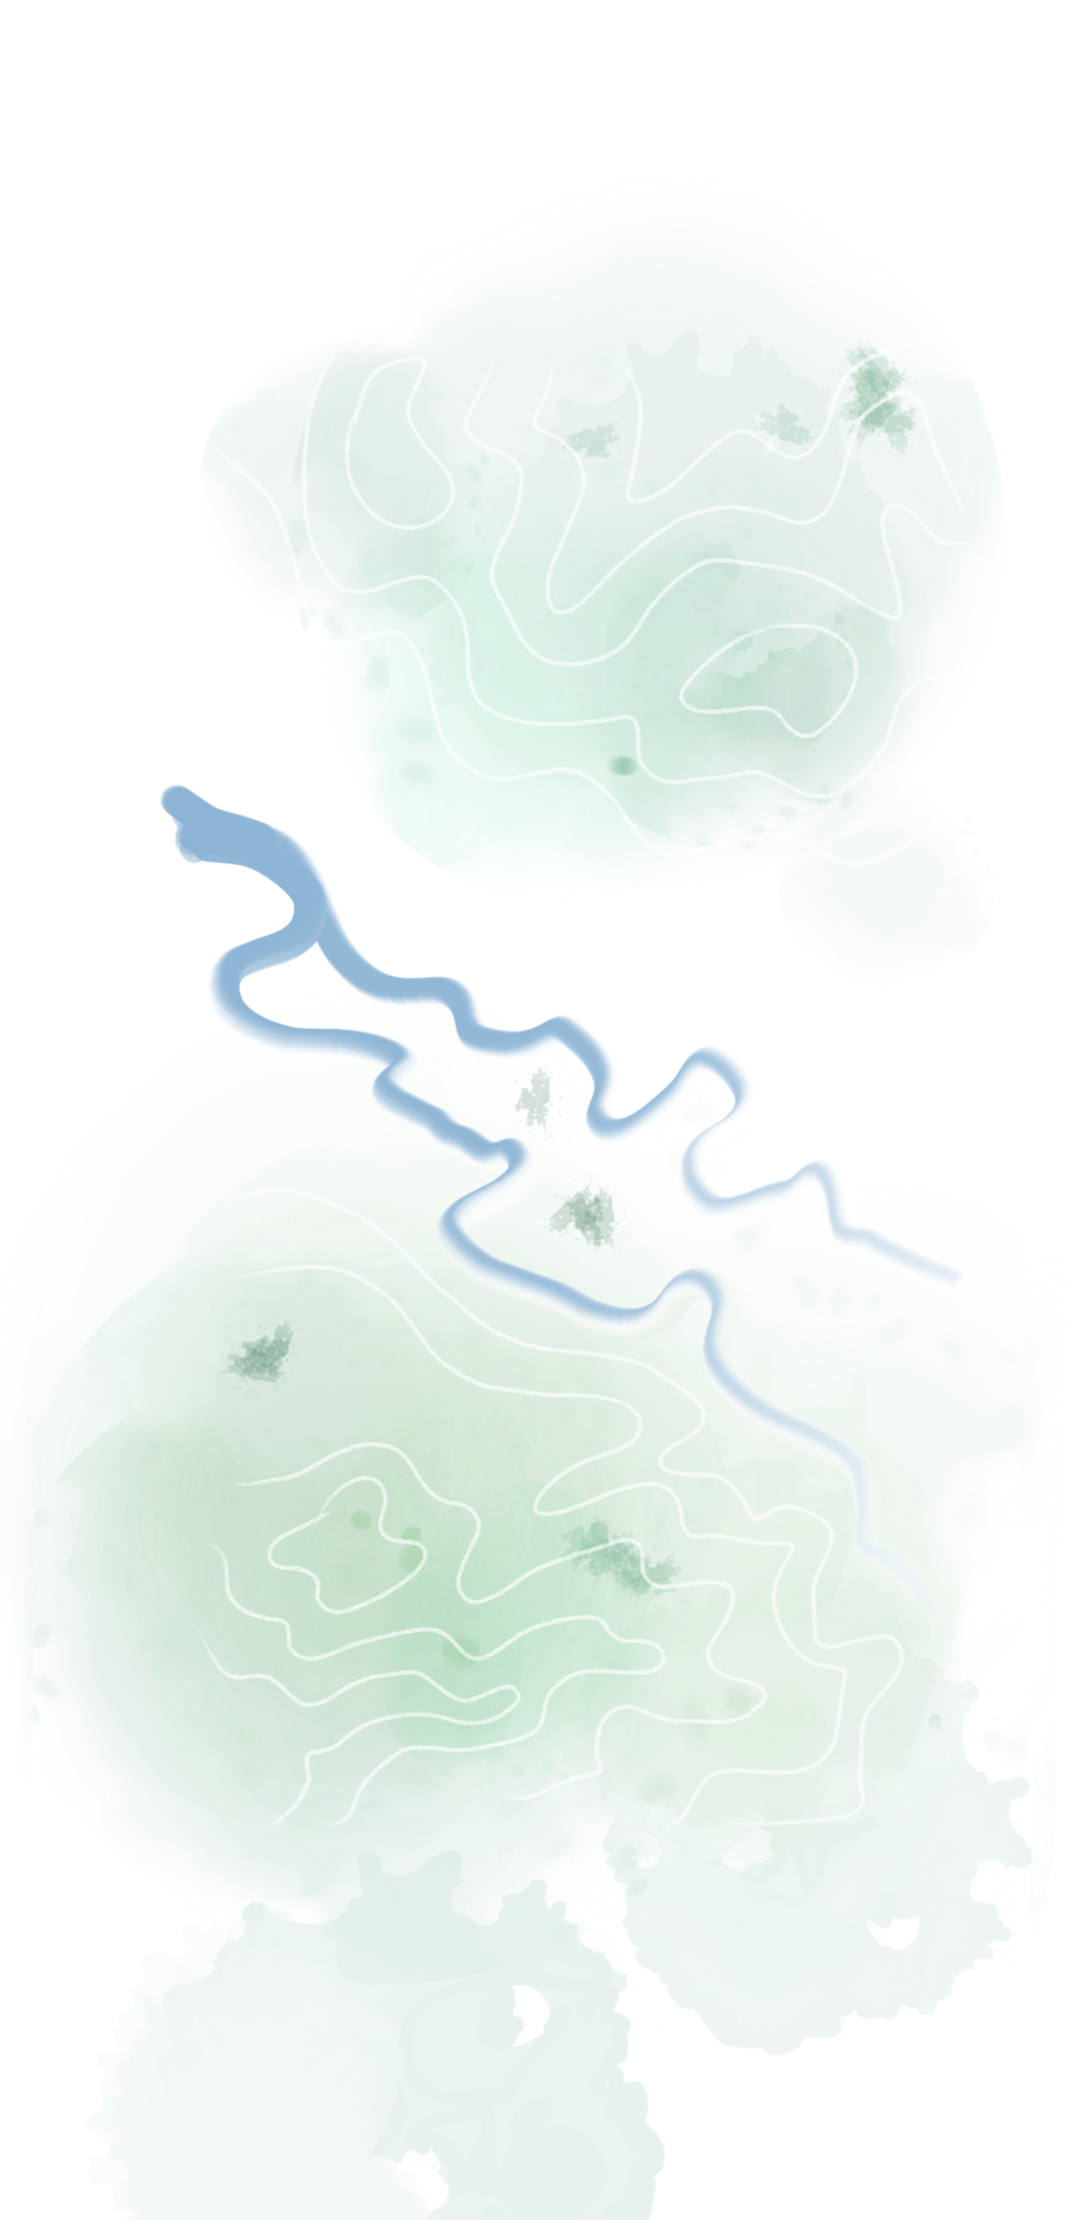
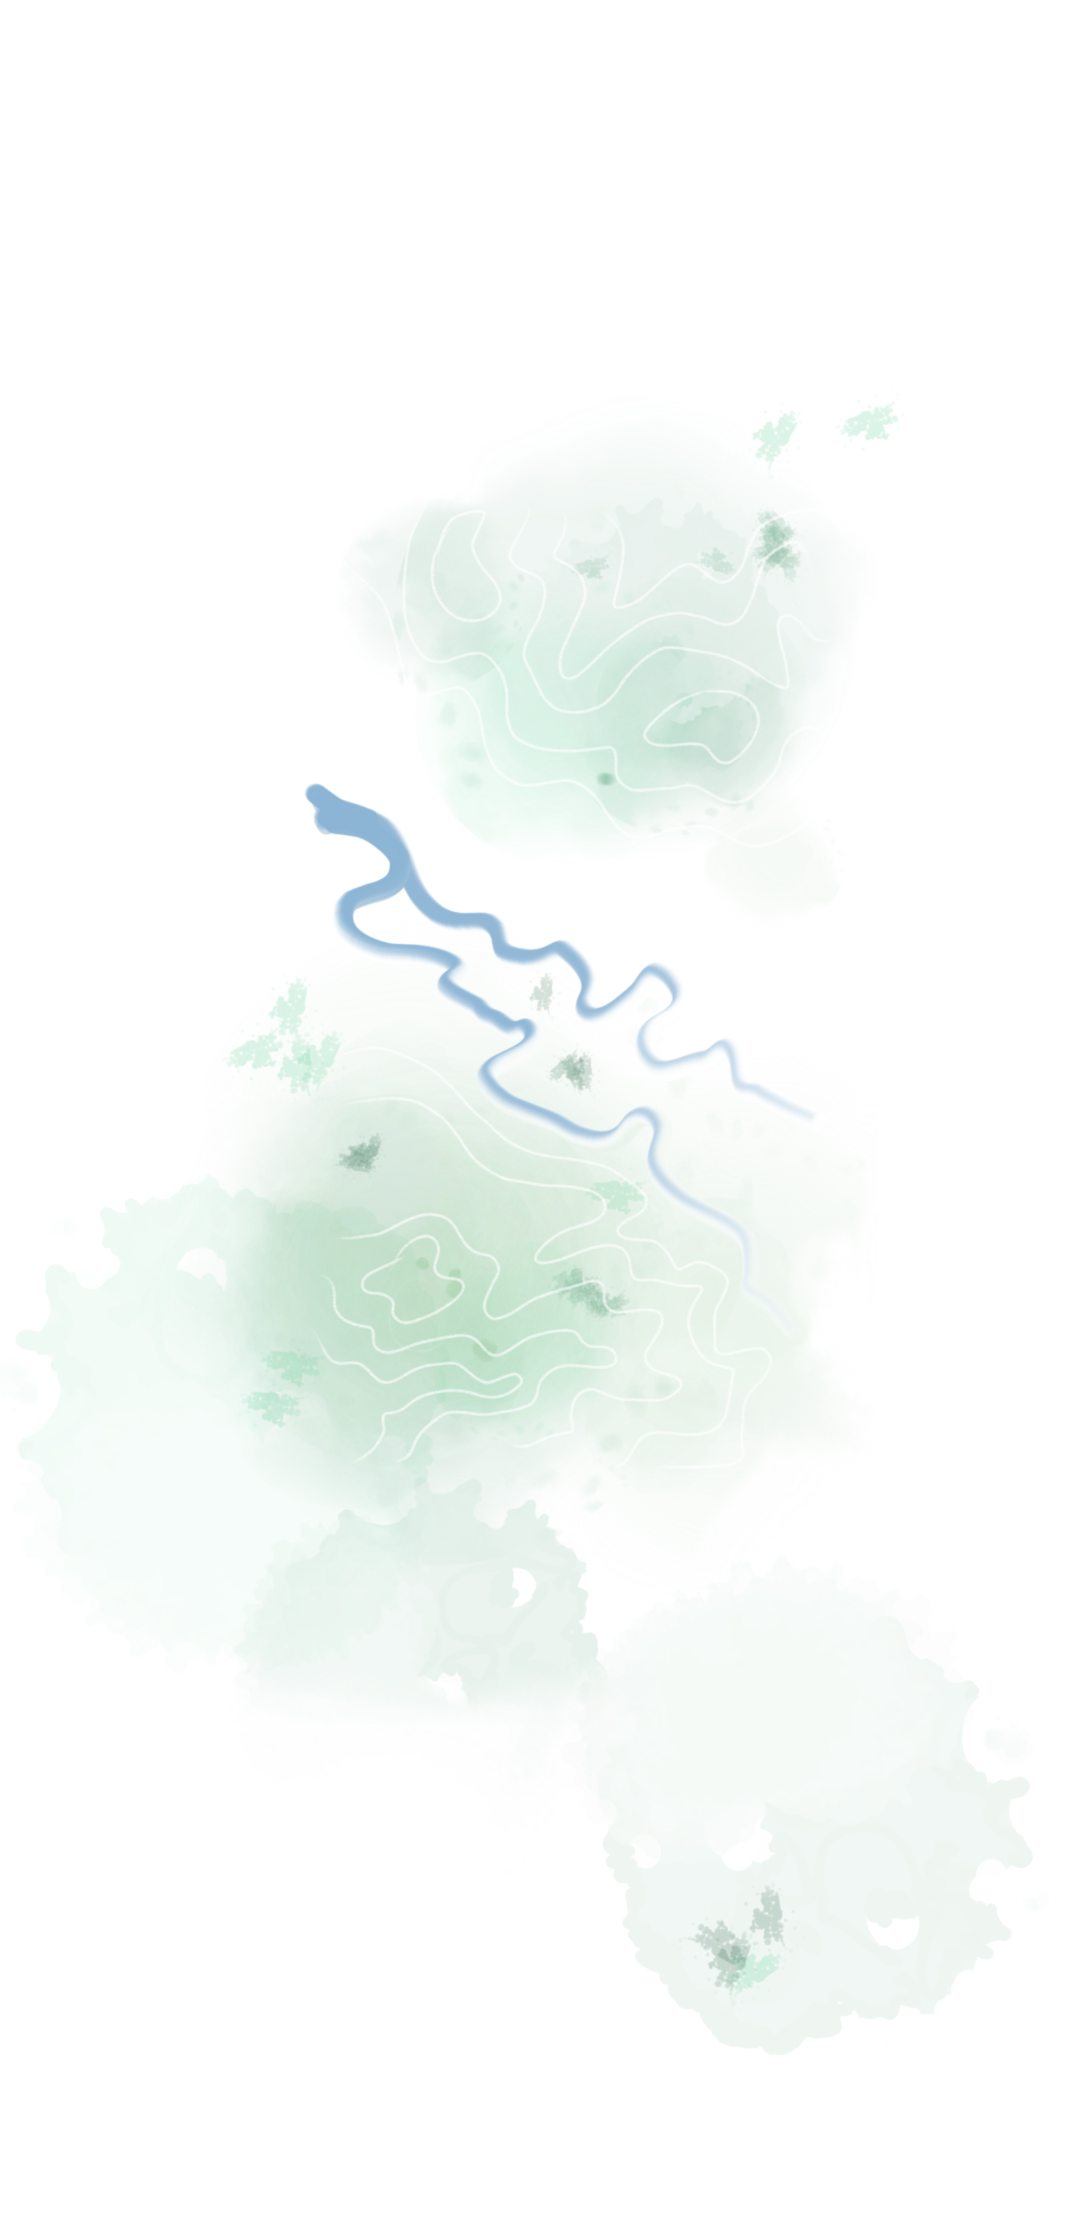
Backgrounds 13

diff --git a/about.html b/about.html
@@ -35,7 +35,7 @@
    <section class="about-hero"> 
     <div class="container about-layout">
         <div class="about-text">
-          <img src="assets/images/map_sketch.png" class="sketch">
+          <img src="assets/images/map_sketch_update.png" class="sketch">
             <h1>About me</h1>
             <p>I'm Klara, and I work as a Geospatial Data Analyst and Ecologist.
                 I'm very interested in the use of data for environmental research and conservation, and actively expanding my skills in this field. 
